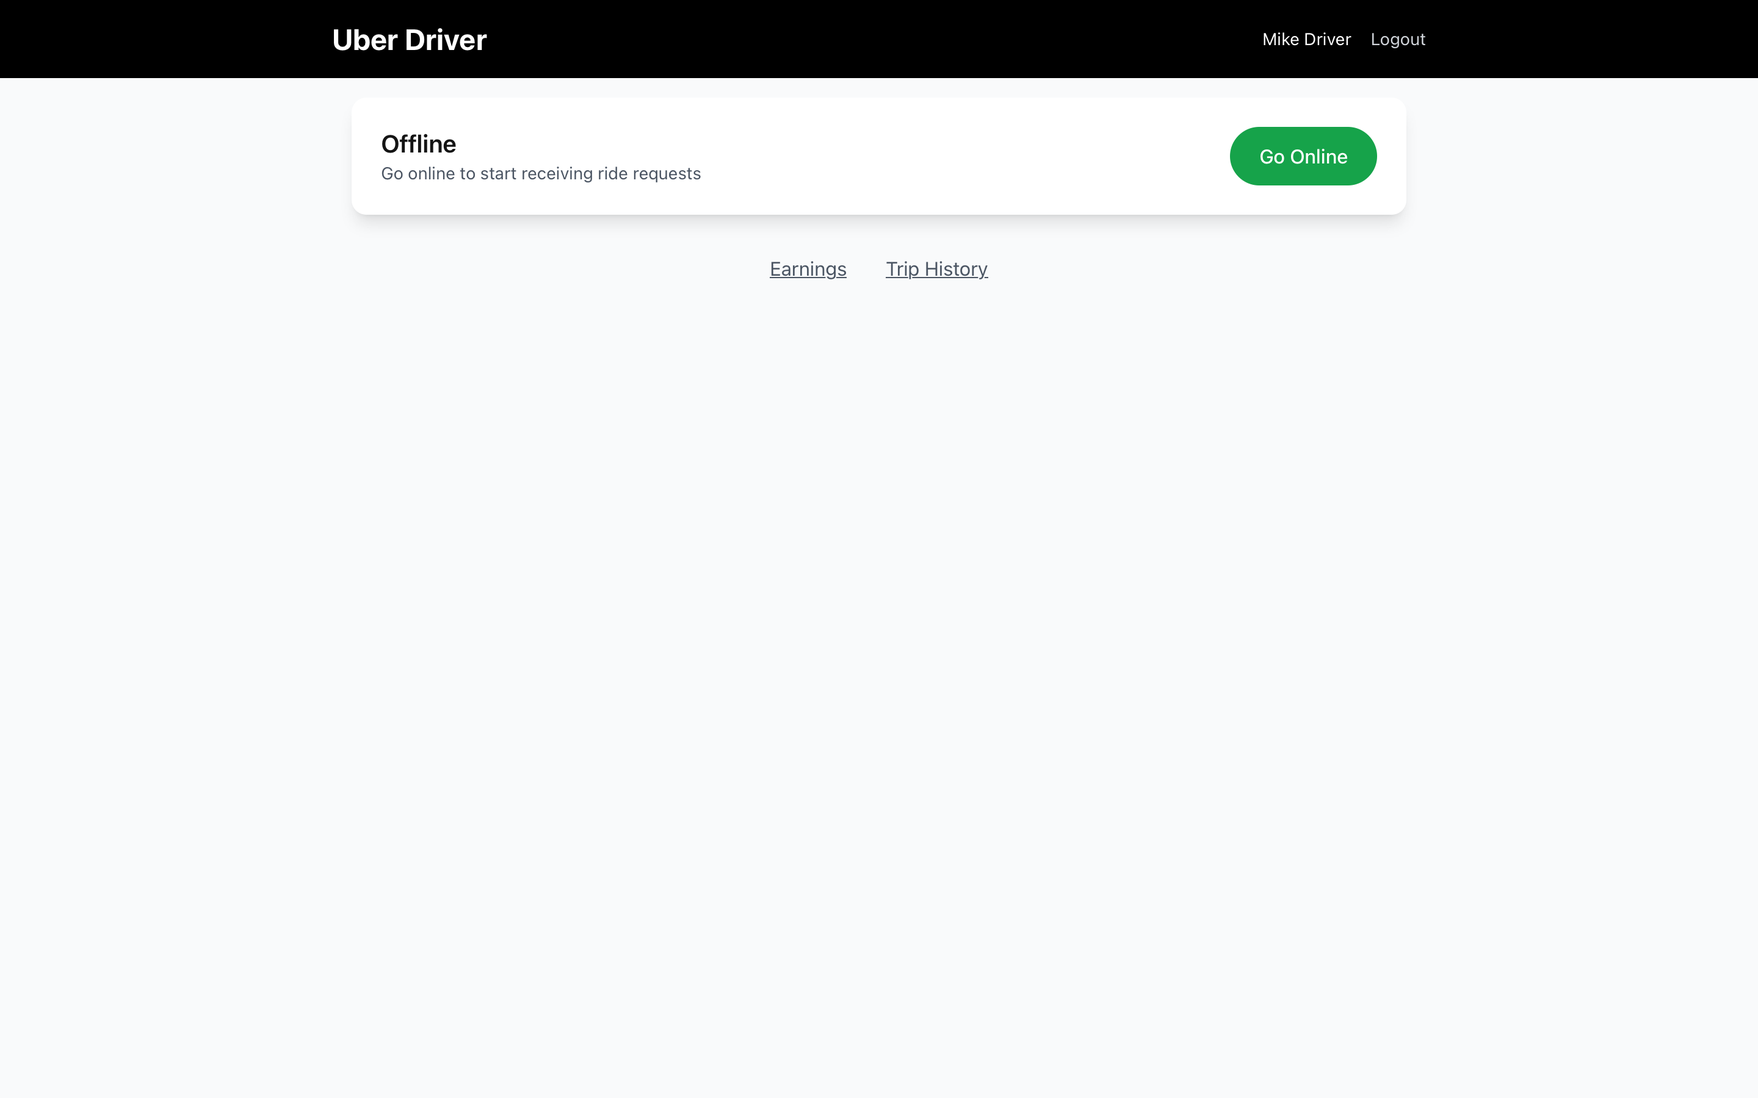
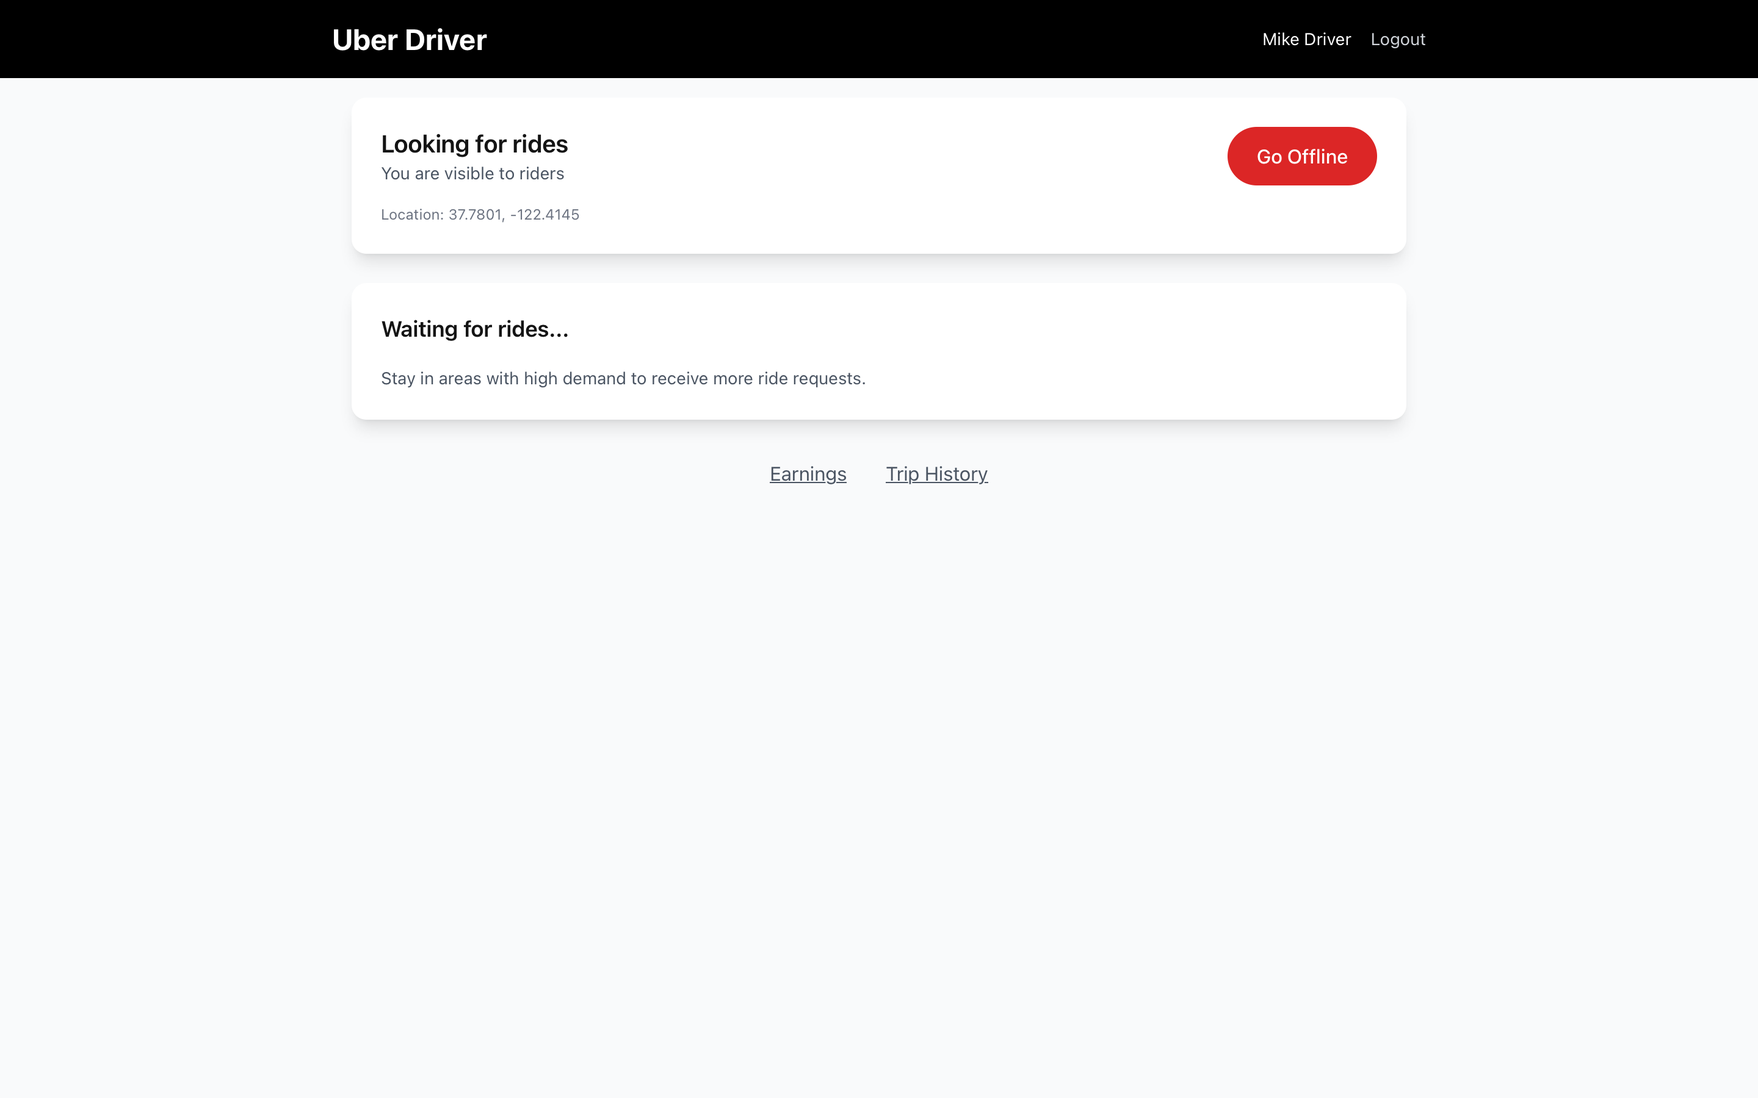
fixes

diff --git a/uber/backend/src/services/locationService.ts b/uber/backend/src/services/locationService.ts
@@ -67,6 +67,47 @@ interface DriverMetricsRow {
 }
 
 class LocationService {
+  /**
+   * Repopulates the Redis geo index from PostgreSQL for drivers marked online.
+   *
+   * The geo index is in-memory and deliberately ephemeral — decision 1 accepts
+   * that a Redis flush loses it, with PostgreSQL holding a lagging persisted
+   * copy written by `persistLocation`. What was missing is the other half of
+   * that bargain: nothing ever read the persisted copy back. After any Redis
+   * restart, or on a freshly seeded database, `drivers:available` is empty and
+   * every fare estimate reports "No drivers nearby" for all vehicle types —
+   * supply is invisible until each driver's app reconnects and streams a new
+   * location.
+   *
+   * Running this at boot makes the durable copy actually load-bearing rather
+   * than merely written. It is a recovery floor, not a substitute for the live
+   * 3-second location stream.
+   *
+   * @returns Number of drivers added to the geo index
+   */
+  async restoreGeoIndexFromDatabase(): Promise<number> {
+    const result = await query<{ user_id: string; current_lat: string; current_lng: string }>(
+      `SELECT user_id, current_lat, current_lng
+       FROM drivers
+       WHERE is_online = TRUE
+         AND current_lat IS NOT NULL
+         AND current_lng IS NOT NULL`
+    );
+
+    if (result.rows.length === 0) return 0;
+
+    const multi = redis.multi();
+    for (const row of result.rows) {
+      const lat = parseFloat(row.current_lat);
+      const lng = parseFloat(row.current_lng);
+      multi.geoadd(DRIVERS_GEO_KEY, lng, lat, row.user_id);
+      multi.set(`${DRIVER_STATUS_PREFIX}${row.user_id}`, 'available');
+    }
+    await multi.exec();
+
+    return result.rows.length;
+  }
+
   // Update driver location in Redis
   async updateDriverLocation(driverId: string, lat: number, lng: number): Promise<{ success: boolean }> {
     const startTime = Date.now();

diff --git a/uber/backend/src/index.ts b/uber/backend/src/index.ts
@@ -4,6 +4,7 @@ import type { IncomingMessage } from 'http';
 import config from './config/index.js';
 import { app } from './app.js';
 import matchingService from './services/matching/index.js';
+import locationService from './services/locationService.js';
 import authService from './services/authService.js';
 import { connectRabbitMQ, closeRabbitMQ } from './utils/queue.js';
 import { createLogger } from './utils/logger.js';
@@ -49,7 +50,6 @@ wss.on('connection', async (ws: WebSocket, req: IncomingMessage): Promise<void> 
         case 'location_update':
           // Driver location update
           if (userId && data.lat !== undefined && data.lng !== undefined) {
-            const locationService = (await import('./services/locationService.js')).default;
             await locationService.updateDriverLocation(userId, data.lat, data.lng);
           }
           break;
@@ -123,6 +123,20 @@ async function start(): Promise<void> {
     } catch (error) {
       const err = error as Error;
       appLogger.warn({ error: err.message }, 'RabbitMQ connection failed - running without queue support');
+    }
+
+    // Rebuild the Redis driver geo index from PostgreSQL before serving. Without
+    // it, a cold Redis means zero visible supply and every fare estimate reads
+    // "No drivers nearby". Non-fatal: a failure here degrades matching, and the
+    // live location stream repopulates the index as drivers reconnect.
+    try {
+      const restored = await locationService.restoreGeoIndexFromDatabase();
+      appLogger.info({ drivers: restored }, 'Driver geo index restored from database');
+    } catch (error) {
+      appLogger.warn(
+        { error: (error as Error).message },
+        'Geo index restore failed - supply will populate from live location updates only'
+      );
     }
 
     // Start HTTP server

diff --git a/uber/backend/src/services/matching/allocation.ts b/uber/backend/src/services/matching/allocation.ts
@@ -165,7 +165,10 @@ export async function acceptRide(rideId: string, driverId: string): Promise<Acce
     return { success: false, error: 'Ride no longer available' };
   }
 
-  // Update ride status with optimistic locking (version check)
+  // Compare-and-swap on status: only a ride still in 'requested' can be matched,
+  // so a second driver accepting the same offer gets zero rows back rather than
+  // silently overwriting the first driver's assignment. (Not a version column —
+  // status is the invariant being protected.)
   const updateResult = await query<RideRow>(
     `UPDATE rides SET driver_id = $1, status = 'matched', matched_at = NOW()
      WHERE id = $2 AND status = 'requested'

diff --git a/uber/frontend/src/routes/driver/earnings.tsx b/uber/frontend/src/routes/driver/earnings.tsx
@@ -118,7 +118,7 @@ function DriverEarningsPage() {
                         })}
                       </span>
                       <span>
-                        {hour.rides} rides · {formatCurrency(hour.earnings)}
+                        {hour.rides} {hour.rides === 1 ? 'ride' : 'rides'} · {formatCurrency(hour.earnings)}
                       </span>
                     </div>
                   ))}

diff --git a/uber/system-design-answer-backend.md b/uber/system-design-answer-backend.md
@@ -393,15 +393,9 @@ Prevent concurrent state updates with optimistic locking:
 
 Mobile networks cause retries. Without idempotency, riders get charged twice.
 
-```
-Request Flow:
-├─▶ Check Redis for key: idempotency:{userId}:{requestKey}
-├─▶ HIT?  → Return cached response immediately
-├─▶ MISS? → Acquire lock (SET ... NX EX 60)
-├─▶ Process request
-├─▶ Cache response (TTL: 24 hours)
-└─▶ Return response
-```
+A request carrying an idempotency key is looked up under `idempotency:{userId}:{key}`. A hit returns the cached response verbatim; a miss takes a 60-second `SET NX EX` lock, processes the request, caches the response for 24 hours, and returns it.
+
+The lock is the part that is easy to omit and matters most. Caching the response alone protects against a retry that arrives *after* the first request finished — but the retry that actually happens is the one sent while the first is still in flight, because the client gave up waiting. Without the lock, both execute, and "request a ride" becomes two rides.
 
 ---
 
@@ -411,42 +405,45 @@ Request Flow:
 
 | Table | Key Columns | Purpose |
 |-------|-------------|---------|
-| **users** | id, email, type (rider/driver), rating | User account |
-| **drivers** | user_id, vehicle_type, is_available, is_online | Driver status |
-| **rides** | id, rider_id, driver_id, status, version | Ride with optimistic lock |
-| **rides** | pickup_lat/lng, dropoff_lat/lng | Location data |
-| **rides** | estimated_fare, final_fare, surge_multiplier | Pricing data |
+| **users** | id, email, user_type (rider/driver), rating, rating_count | Account and reputation |
+| **drivers** | user_id (PK/FK), vehicle_type, is_online, is_available, current_lat/lng | Driver status and last known position |
+| **rides** | id, rider_id, driver_id, status, vehicle_type | Ride identity and lifecycle state |
+| **rides** | pickup_lat/lng + address, dropoff_lat/lng + address | Endpoints, kept denormalized on the ride |
+| **rides** | estimated_fare_cents, final_fare_cents, surge_multiplier, distance_meters, duration_seconds | Pricing, with the inputs that produced it |
+| **rides** | requested_at, matched_at, driver_arrived_at, picked_up_at, completed_at, cancelled_at | One timestamp per lifecycle transition |
+
+The timestamps deserve a note. Storing a column per transition rather than a single `updated_at` means the ride row *is* its own audit log: time-to-match, time-to-pickup, and trip duration are all differences between columns already on the row, with no event table to join. The cost is a wide, mostly-NULL row — a cancelled ride has four NULL timestamps — and a schema change every time a new state is added.
 
 ### 📇 Index Strategy
 
-```
-Rides Table Indexes:
-├── PRIMARY KEY (id)
-├── BTREE (rider_id, requested_at DESC)    ← Rider history
-├── BTREE (driver_id, requested_at DESC)   ← Driver history
-├── PARTIAL (status) WHERE status NOT IN ('completed', 'cancelled')  ← Active rides
-└── BTREE (requested_at DESC)              ← Recent ride queries
+| Index | Serves |
+|-------|--------|
+| `rides (rider_id, requested_at DESC)` | Rider history, newest first |
+| `rides (driver_id, requested_at DESC)` | Driver history and the earnings rollup |
+| `rides (status)` partial, WHERE status NOT IN ('completed','cancelled') | Active rides — the small hot set the dispatcher scans |
+| `drivers (is_available, is_online)` partial, WHERE is_available | Available-driver lookups that bypass Redis |
 
-Drivers Table Indexes:
-├── PRIMARY KEY (user_id)
-└── PARTIAL (is_available, is_online) WHERE is_available = true  ← Available drivers
-```
+The partial indexes are the interesting ones. Almost every ride in the table is eventually terminal, so an index over all statuses would be dominated by rows no query cares about; restricting it to in-flight rides keeps it proportional to concurrent demand rather than to history. The same argument applies to the driver index.
 
 ### 🔴 Redis Data Structures
 
-```
-Geospatial (Sorted Set with geohash):
-├─▶ drivers:available:{vehicleType}  →  GeoSet of driver locations
+| Key | Type | Purpose |
+|-----|------|---------|
+| `drivers:available` | GEO (sorted set) | The live driver index — one set for all vehicle types, queried with `GEORADIUS ... WITHDIST COUNT 20 ASC` |
+| `driver:location:{id}` | Hash, 60s TTL | Last reported lat/lng and timestamp |
+| `driver:status:{id}` | String | Availability, so a driver mid-ride is not offered another |
+| `demand:{geohash}` | Counter, 5-min TTL | Requests per ~5km cell; the numerator of the surge ratio |
+| `ride:{id}` | Hash | Cached ride state for the status endpoint |
 
-Driver Metadata (Hash):
-├─▶ driver:location:{id}  →  { lat, lng, timestamp, heading }
+One choice worth defending: a **single** geo set rather than one per vehicle type. Partitioning by vehicle type would make each radius query smaller and let a premium request skip economy drivers entirely. It also multiplies the write path — a driver who serves multiple tiers must be added to and removed from several sets atomically — and it fragments the supply signal that surge depends on, since demand is measured per area, not per tier. With filtering by tier happening after the radius query on at most 20 candidates, the extra work is negligible and the write path stays a single `GEOADD`.
 
-Surge Data (String with TTL):
-├─▶ surge:{geohash}  →  "1.5"  (TTL: 120s)
+### 🔒 What actually protects the ride lifecycle
 
-Idempotency Cache (String with TTL):
-└─▶ idempotency:{userId}:{key}  →  { status, body }  (TTL: 86400s)
-```
+This is worth being precise about, because "we use optimistic locking" is easy to say and this system does something narrower.
+
+Only one transition is guarded: accepting an offer runs `UPDATE rides SET driver_id = $1, status = 'matched' WHERE id = $2 AND status = 'requested' RETURNING *`, and treats an empty result as "someone else got there first." That is a **compare-and-swap on the status column** — not a version counter — and status is the right thing to compare, since the invariant being protected is "a ride is matched exactly once." It is the transition that genuinely races: the same offer can be outstanding to a driver whose acceptance crosses with a timeout-driven reoffer to the next candidate.
+
+The later transitions — `driver_arrived`, `picked_up`, `completed` — are unguarded `UPDATE ... WHERE id = $1`. In practice they are driven sequentially by one driver's app, so the race window is small. But unguarded means a duplicate or out-of-order request will happily move a ride backwards, and a retried "complete" will overwrite `final_fare_cents` and `completed_at`. Adding the expected status to each `WHERE` clause costs nothing and makes every transition idempotent; the only reason it is not there is that nobody hit the bug.
 
 ---
 
@@ -454,34 +451,27 @@ Idempotency Cache (String with TTL):
 
 ### 📊 Zone-Based Calculation
 
-```
-┌─────────────────────────────────────────────────────────────┐
-│                  Surge Pricing Logic                         │
-├─────────────────────────────────────────────────────────────┤
-│                                                              │
-│  Using 5-character geohash (~5km × 5km cells):              │
-│                                                              │
-│  1. Get zone: geohash.encode(lat, lng, precision=5)         │
-│                                                              │
-│  2. Calculate supply/demand ratio:                           │
-│     ratio = available_drivers / (pending_requests + 1)       │
-│                                                              │
-│  3. Map ratio to multiplier:                                 │
-│     ┌───────────────────┬─────────────┐                     │
-│     │ Supply/Demand     │ Multiplier  │                     │
-│     ├───────────────────┼─────────────┤                     │
-│     │ > 2.0             │ 1.0x        │                     │
-│     │ 1.5 - 2.0         │ 1.1x        │                     │
-│     │ 1.0 - 1.5         │ 1.2x        │                     │
-│     │ 0.75 - 1.0        │ 1.5x        │                     │
-│     │ 0.5 - 0.75        │ 1.8x        │                     │
-│     │ < 0.5             │ 2.0-2.5x    │                     │
-│     └───────────────────┴─────────────┘                     │
-│                                                              │
-│  4. Cache result (TTL: 2 minutes)                           │
-│                                                              │
-└─────────────────────────────────────────────────────────────┘
-```
+Surge is computed per ~5km geohash cell (precision 5), on demand, from two numbers:
+
+- **Demand** — each ride request `INCR`s `demand:{geohash}`, a counter with a 5-minute TTL.
+- **Supply** — a `GEORADIUS` count of available drivers within 3km of the pickup point.
+
+The ratio `supply / (demand + 1)` maps through a fixed table:
+
+| Supply / demand | Multiplier | Reading |
+|-----------------|-----------|---------|
+| > 2.0 | 1.0× | Drivers idle; no signal needed |
+| 1.5 – 2.0 | 1.1× | Comfortable |
+| 1.0 – 1.5 | 1.2× | Tightening |
+| 0.75 – 1.0 | 1.5× | More requests than drivers |
+| 0.5 – 0.75 | 1.8× | Scarce |
+| < 0.5 | 2.0 – 2.5× | Starved |
+
+Two details carry the design. The **TTL is the window** — because the demand counter expires on its own, the system has a rolling five-minute view of demand with no background job to age it out and nothing to reconcile if a worker dies. That is a genuinely nice property: the data structure enforces the time semantics.
+
+And **the `+1` in the denominator** is not defensive coding — it defines behaviour in the case that matters most. With zero demand the ratio would be undefined; with the increment, an empty cell reports maximum supply ratio and therefore no surge, which is the correct answer for an area nobody is requesting rides in.
+
+**Why geohash rather than H3.** Geohash cells are rectangles on a lat/lng grid, so they are not equal-area — cells narrow toward the poles — and, worse, adjacent cells meet along straight boundaries where a rider crossing the street can see a different multiplier. Uber uses H3 hexagons precisely because hexagons have uniform adjacency: every neighbour shares an edge, so interpolation across neighbours is well-defined. The reason to accept geohash here is that Redis speaks it natively — the same encoding backs `GEOADD` — so the surge zone and the driver index share a coordinate system for free. The honest mitigation for the boundary discontinuity is to blend a cell's multiplier with its neighbours', which needs neighbour enumeration that hexagons make trivial and rectangles make fiddly.
 
 ### 💵 Fare Calculation
 

diff --git a/uber/CLAUDE.md b/uber/CLAUDE.md
@@ -12,7 +12,7 @@ Three backend datastores plus a message broker, each on a specific access patter
 
 | Store | Client | Role | Why this one |
 |-------|--------|------|--------------|
-| **PostgreSQL 16** | `pg` | Source of truth: users, drivers, rides, payments, sessions, analytics rollups | ACID for the ride lifecycle and money; optimistic-locked status transitions |
+| **PostgreSQL 16** | `pg` | Source of truth: users, drivers, rides, payments, sessions, analytics rollups | ACID for the ride lifecycle and money; the match transition is a status compare-and-swap (see repair log) |
 | **Redis / Valkey** | `ioredis` | Live driver geo index (`GEOADD`/`GEORADIUS`), driver status, surge demand counters, ride cache | Sub-ms radius queries on ephemeral hot data that changes every 3s |
 | **RabbitMQ** | `amqplib` | Matching request queue + `ride_events` fanout exchange feeding workers | Decouples the < 200ms request API from the slower matching loop |
 
@@ -48,6 +48,14 @@ Intentionally omitted (production extensions): Kafka for the location firehose, 
 - **Answer-file trim:** `system-design-answer-fullstack.md` was ~728 lines; condensed the oversized ride-request sequence diagram and several state-sync diagrams into compact form to bring it under the 600-line target without losing the flow.
 - **Doc drift fixes (this pass):** the old CLAUDE.md claimed "Docker Compose for PostgreSQL and Redis" and never mentioned RabbitMQ or the workers — corrected to the real three-store + broker topology. README's native-install pointed at a nonexistent `backend/src/models/init.sql` and omitted RabbitMQ; fixed to `backend/src/db/init.sql`, added the RabbitMQ install step and an explicit seed command.
 - **CI note (repo-wide):** the GitHub Actions smoke-test workflow was removed (couldn't run without Docker services); don't treat it as active.
+
+- **2026-08-10 — three of six screens showed nothing, and two pages were unreachable.**
+  1. **`/rider/history` rendered the rider *index* page.** With TanStack flat routing, `rider.tsx` is the PARENT of `rider/history.tsx`, and it renders no `<Outlet/>` — so the child never mounted and the parent's own content appeared at the child's URL. `driver.tsx` had the same relationship with `driver/earnings.tsx` and `driver/history.tsx`. Three fully-built pages were unreachable by any path. Fixed by moving both parents to `rider/index.tsx` / `driver/index.tsx` so they are siblings of their children. **Third occurrence of this class in the repo** (payment-system's `transactions.tsx`, reddit's `r.$subreddit.tsx`) — worth a repo-wide sweep for any `X.tsx` that has an `X/` directory beside it and no `<Outlet/>`.
+  2. **Both driver screens were captured as the login page.** The harness logged in once as `rider1@test.com`, and `/driver` redirects non-drivers. The harness already supports per-screen `loginAs` for exactly this multi-sided case; the config simply never used it.
+  3. **The seed had users, drivers, and payment methods and no rides at all**, so rider history, driver history, and the earnings dashboard were all empty — and earnings defaults to "today", so rides had to be completed *today* to show anything. Seeded 9 rides across both riders and all three drivers, including a cancellation, with fares internally consistent against their distance/duration/surge so the earnings total isn't nonsense.
+  4. **Every fare estimate read "No drivers nearby" for all four vehicle types.** Drivers seeded with `is_online = FALSE` and no coordinates, and — the deeper issue — **nothing ever reads the persisted location copy back.** Decision 1 accepts that the Redis geo index is ephemeral and says PostgreSQL holds a lagging copy via `persistLocation`; but that copy was write-only, so after any Redis restart supply was invisible until every driver's app reconnected. Added `restoreGeoIndexFromDatabase()`, called at boot, which `GEOADD`s online drivers back into `drivers:available`. Same pattern as tinder's Elasticsearch backfill: the durable store has to be readable back, or it isn't really a backup.
+- **Also:** the rider address inputs had no `id`/`name`/`htmlFor` (no stable selector, no label association) and the Set buttons no `data-testid`; "1 rides" pluralization in the hourly earnings breakdown. Screenshots 6 → 7, all showing real data — including 1.1× surge and XL correctly reporting no drivers, since no XL driver is seeded.
+- **2026-08-10 (answer doc) — corrected a claim this file was also making.** `system-design-answer-backend.md` described "optimistic locking" with a `version` column on `rides`. **There is no `version` column.** What exists is narrower and worth stating precisely: the accept path runs `UPDATE rides SET ... WHERE id = $2 AND status = 'requested'` and treats zero rows as "another driver got there first" — a compare-and-swap on the status column, which is the right guard for the one transition that actually races. The later transitions (`driver_arrived`, `picked_up`, `completed`) are unguarded, so a retried request can move a ride backwards or overwrite `final_fare_cents`. A code comment in `allocation.ts` also says "(version check)" and is wrong. Doc trimmed 552 → 542 lines, with the index/Redis/surge tree-and-box listings converted to tables and the geohash-vs-H3 trade-off written out properly.
 
 ## Open Questions
 
